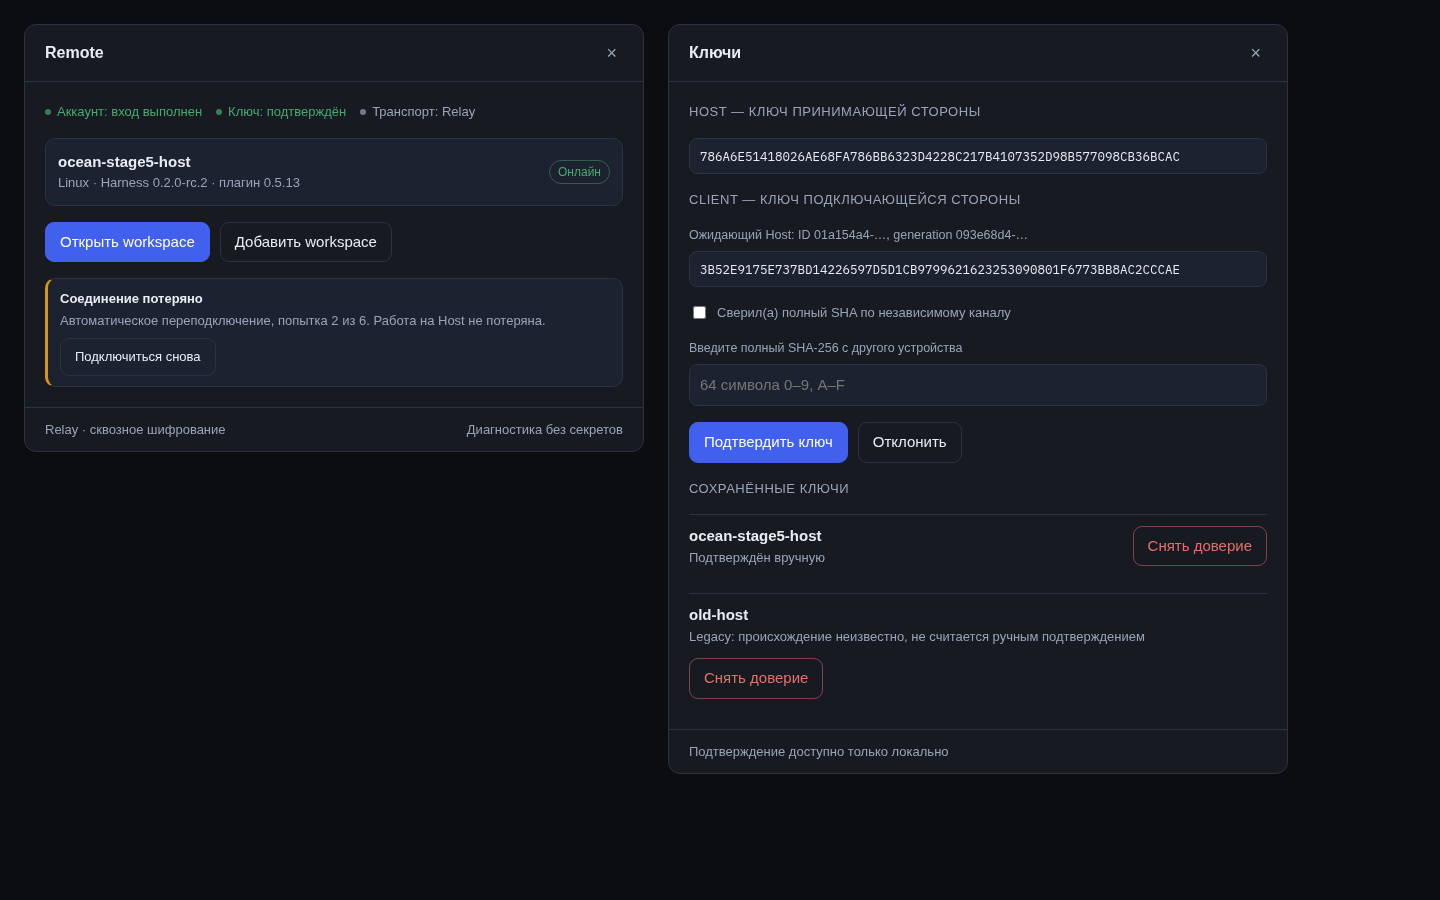
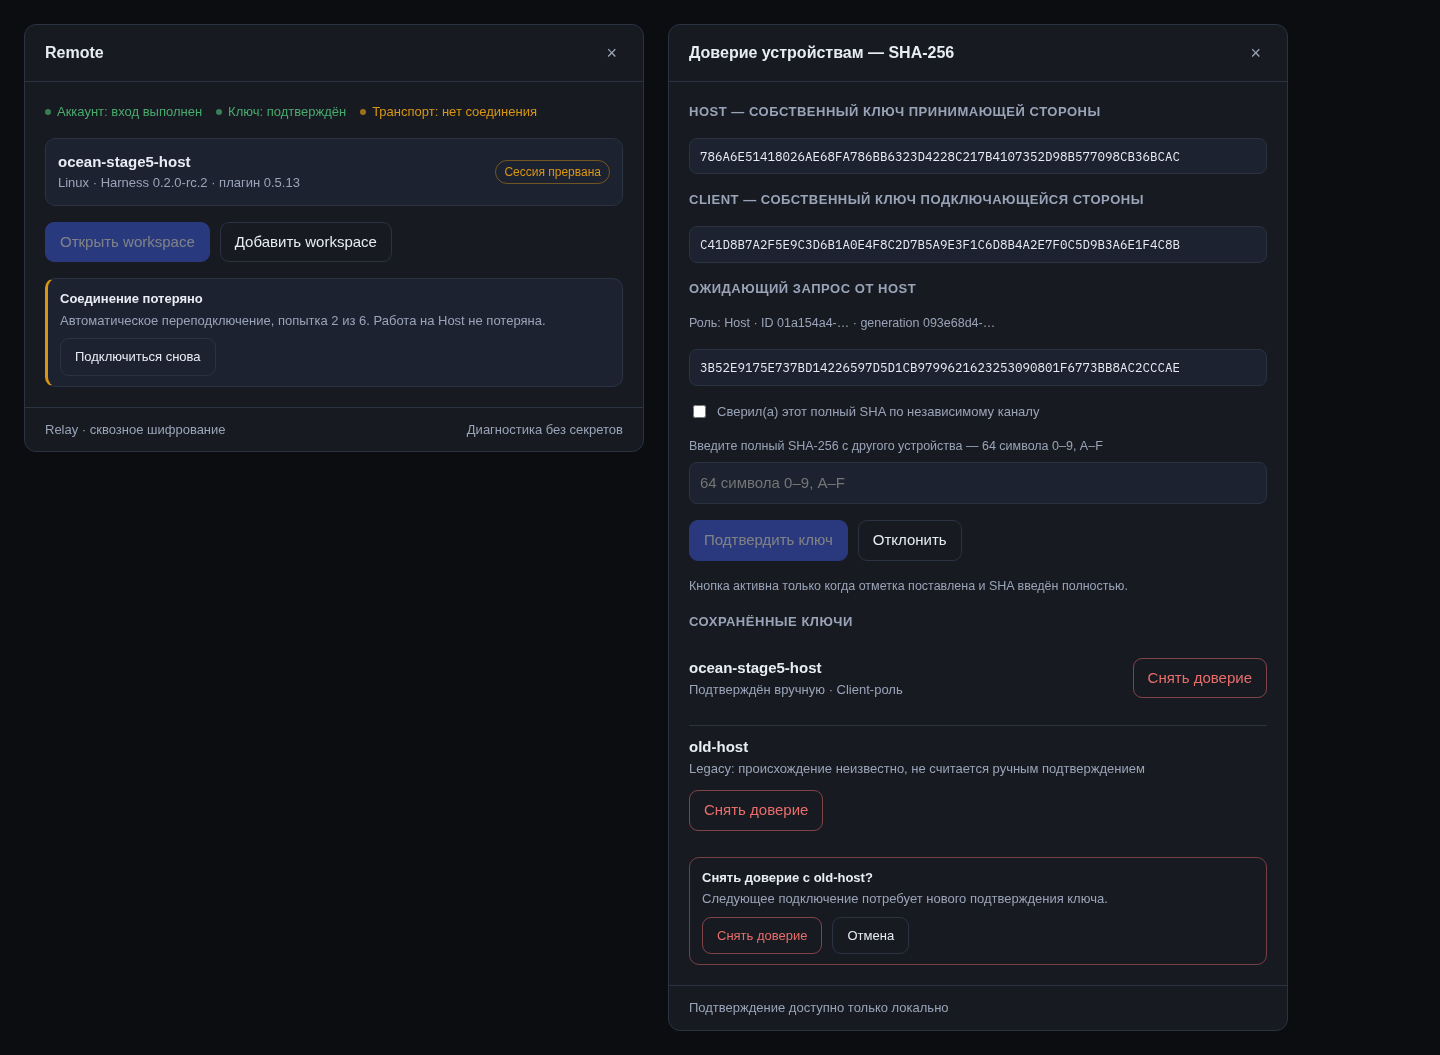
docs: clarify mockup states and add tablet/screen sizes

diff --git a/docs/design/fork/mockups/remote-card.html b/docs/design/fork/mockups/remote-card.html
@@ -3,79 +3,89 @@
 <head>
 <meta charset="utf-8">
 <meta name="viewport" content="width=device-width, initial-scale=1">
-<title>Remote: карточка подключения и доверие</title>
+<title>Remote: карточка подключения и доверие — макет</title>
 <style>
+  /* Макет использует те же смысловые имена, что UI kit. В продукте поверхности
+     плагина получают значения из темы native DSH (--dsw-alias-*), здесь — локальные
+     подстановки с тем же смыслом. Здесь показана только тёмная тема. */
   :root{
-    --bg:#0f1115; --surface:#171a21; --surface-2:#1d2230; --border:#2b3242;
-    --ink:#e8ecf4; --muted:#9aa4b8; --accent:#4160ed; --success:#49aa6e; --warn:#d89614; --danger:#e86e6b;
+    --bg:#0b0d11; --surface:#171a21; --surface-2:#1d2230; --border:#2b3242;
+    --ink:#e8ecf4; --muted:#9aa4b8; --accent:#4160ed;
+    --success:#49aa6e; --warning:#d89614; --danger:#e86e6b;
     --radius:12px; --gap:16px;
   }
   *{box-sizing:border-box}
-  body{margin:0;background:#0b0d11;color:var(--ink);font:15px/1.5 -apple-system,"Segoe UI",Roboto,sans-serif}
+  body{margin:0;background:var(--bg);color:var(--ink);font:15px/1.5 -apple-system,"Segoe UI",Roboto,sans-serif}
   .stage{display:flex;gap:24px;padding:24px;align-items:flex-start;flex-wrap:wrap}
   .card{background:var(--surface);border:1px solid var(--border);border-radius:var(--radius);width:620px;overflow:hidden}
   .card__head{display:flex;align-items:center;justify-content:space-between;padding:16px 20px;border-bottom:1px solid var(--border)}
-  .card__title{font-weight:600;font-size:16px}
-  .card__close{background:transparent;border:0;color:var(--muted);font-size:18px;cursor:pointer}
+  .card__title{margin:0;font-weight:600;font-size:16px}
+  .card__close{background:transparent;border:0;color:var(--muted);font-size:18px;cursor:pointer;border-radius:6px}
   .card__body{padding:20px;display:flex;flex-direction:column;gap:var(--gap)}
-  .layers{display:flex;gap:14px;flex-wrap:wrap;font-size:13px;color:var(--muted)}
+  .layers{display:flex;gap:14px;flex-wrap:wrap;font-size:13px;color:var(--muted);margin:0}
   .layer{display:inline-flex;align-items:center;gap:6px}
   .dot{width:6px;height:6px;border-radius:50%;background:currentColor;opacity:.7}
-  .layer--ok{color:var(--success)} .layer--none{color:var(--muted)} .layer--warn{color:var(--warn)}
-  .host{display:flex;justify-content:space-between;align-items:center;padding:12px;border:1px solid var(--border);border-radius:10px;background:var(--surface-2)}
+  .layer--ok{color:var(--success)} .layer--none{color:var(--muted)} .layer--warn{color:var(--warning)}
+  .host{display:flex;justify-content:space-between;align-items:center;padding:12px;border:1px solid var(--border);border-radius:10px;background:var(--surface-2);gap:12px}
   .host__name{font-weight:600}
   .host__meta{font-size:13px;color:var(--muted)}
-  .badge{font-size:12px;padding:2px 8px;border-radius:999px;border:1px solid var(--border);color:var(--muted)}
+  .badge{font-size:12px;padding:2px 8px;border-radius:999px;border:1px solid var(--border);color:var(--muted);white-space:nowrap}
+  .badge--warn{color:var(--warning);border-color:color-mix(in srgb,var(--warning) 45%,transparent)}
   .badge--ok{color:var(--success);border-color:color-mix(in srgb,var(--success) 45%,transparent)}
   .btn{border:1px solid var(--border);background:transparent;color:var(--ink);border-radius:9px;padding:8px 14px;font:inherit;cursor:pointer;white-space:nowrap}
+  .btn:hover{border-color:var(--muted)}
+  .btn:focus-visible,.card__close:focus-visible{outline:2px solid var(--accent);outline-offset:2px}
   .btn--primary{background:var(--accent);border-color:var(--accent);color:#fff}
   .btn--danger{color:var(--danger);border-color:color-mix(in srgb,var(--danger) 50%,transparent)}
-  .notice{border:1px solid var(--border);border-left:3px solid var(--warn);border-radius:10px;padding:10px 12px;font-size:13px;color:var(--muted);background:var(--surface-2)}
+  .btn[disabled]{opacity:.45;cursor:not-allowed}
+  .notice{border:1px solid var(--border);border-left:3px solid var(--warning);border-radius:10px;padding:10px 12px;font-size:13px;color:var(--muted);background:var(--surface-2)}
   .notice strong{display:block;color:var(--ink);font-size:13px;margin-bottom:2px}
+  .confirm{border:1px solid color-mix(in srgb,var(--danger) 45%,transparent);border-radius:10px;padding:10px 12px;font-size:13px;color:var(--muted)}
+  .confirm strong{display:block;color:var(--ink);margin-bottom:2px}
   .section-title{font-size:13px;letter-spacing:.04em;text-transform:uppercase;color:var(--muted);margin:0}
-  .sha{font-family:ui-monospace,SFMono-Regular,Menlo,monospace;font-size:12.5px;overflow-wrap:anywhere;color:var(--ink);background:var(--surface-2);border:1px solid var(--border);border-radius:8px;padding:8px 10px}
+  .sha{font-family:ui-monospace,SFMono-Regular,Menlo,monospace;font-size:12.5px;overflow-wrap:anywhere;color:var(--ink);background:var(--surface-2);border:1px solid var(--border);border-radius:8px;padding:8px 10px;margin:0}
   .row{display:flex;gap:10px;align-items:center;flex-wrap:wrap}
-  .field{display:flex;flex-direction:column;gap:6px}
+  .field{display:flex;flex-direction:column;gap:6px;margin:0}
   .field input{background:var(--surface-2);border:1px solid var(--border);border-radius:8px;color:var(--ink);padding:9px 10px;font:inherit;width:100%}
-  .hint{font-size:12.5px;color:var(--muted)}
+  .field input:focus-visible{outline:2px solid var(--accent);outline-offset:2px}
+  .hint{font-size:12.5px;color:var(--muted);margin:0}
   .check{display:flex;gap:8px;align-items:flex-start;font-size:13px;color:var(--muted)}
-  .pin{display:flex;justify-content:space-between;align-items:center;gap:12px;padding:10px 0;border-top:1px solid var(--border);flex-wrap:wrap}
-  .pin:first-of-type{border-top:0}
-  .footer{display:flex;justify-content:space-between;align-items:center;padding:12px 20px;border-top:1px solid var(--border);font-size:13px;color:var(--muted)}
-  @media (max-width:520px){
+  .pin{display:flex;justify-content:space-between;align-items:center;gap:12px;padding:10px 0;flex-wrap:wrap}
+  .pin + .pin{border-top:1px solid var(--border)}
+  .footer{display:flex;justify-content:space-between;align-items:center;gap:12px;padding:12px 20px;border-top:1px solid var(--border);font-size:13px;color:var(--muted);flex-wrap:wrap}
+  @media (max-width:700px){
     .stage{padding:12px}
     .card{width:100%}
     .card__body{padding:14px;gap:12px}
     .host{flex-direction:column;align-items:flex-start;gap:8px}
-    .footer{flex-direction:column;gap:8px;align-items:flex-start}
   }
 </style>
 </head>
 <body>
 <div class="stage">
-  <section class="card" aria-label="Remote — подключение">
+  <section class="card" aria-labelledby="remote-title">
     <header class="card__head">
-      <span class="card__title">Remote</span>
-      <button class="card__close" aria-label="Закрыть">×</button>
+      <h2 class="card__title" id="remote-title">Remote</h2>
+      <button class="card__close" aria-label="Закрыть карточку Remote">×</button>
     </header>
     <div class="card__body">
-      <div class="layers">
-        <span class="layer layer--ok"><span class="dot"></span>Аккаунт: вход выполнен</span>
-        <span class="layer layer--ok"><span class="dot"></span>Ключ: подтверждён</span>
-        <span class="layer layer--none"><span class="dot"></span>Транспорт: Relay</span>
-      </div>
+      <p class="layers">
+        <span class="layer layer--ok"><span class="dot" aria-hidden="true"></span>Аккаунт: вход выполнен</span>
+        <span class="layer layer--ok"><span class="dot" aria-hidden="true"></span>Ключ: подтверждён</span>
+        <span class="layer layer--warn"><span class="dot" aria-hidden="true"></span>Транспорт: нет соединения</span>
+      </p>
       <div class="host">
         <div>
           <div class="host__name">ocean-stage5-host</div>
           <div class="host__meta">Linux · Harness 0.2.0-rc.2 · плагин 0.5.13</div>
         </div>
-        <span class="badge badge--ok">Онлайн</span>
+        <span class="badge badge--warn">Сессия прервана</span>
       </div>
       <div class="row">
-        <button class="btn btn--primary">Открыть workspace</button>
+        <button class="btn btn--primary" disabled>Открыть workspace</button>
         <button class="btn">Добавить workspace</button>
       </div>
-      <div class="notice">
+      <div class="notice" role="status">
         <strong>Соединение потеряно</strong>
         Автоматическое переподключение, попытка 2 из 6. Работа на Host не потеряна.
         <span class="row" style="margin-top:8px"><button class="btn">Подключиться снова</button></span>
@@ -87,44 +97,51 @@
     </footer>
   </section>
 
-  <section class="card" aria-label="Ключи — ожидающий запрос">
+  <section class="card" aria-labelledby="trust-title" aria-label="Доверие устройств">
     <header class="card__head">
-      <span class="card__title">Ключи</span>
-      <button class="card__close" aria-label="Закрыть">×</button>
+      <h2 class="card__title" id="trust-title">Доверие устройствам — SHA-256</h2>
+      <button class="card__close" aria-label="Закрыть панель доверия">×</button>
     </header>
     <div class="card__body">
-      <p class="section-title">Host — ключ принимающей стороны</p>
-      <div class="sha">786A6E51418026AE68FA786BB6323D4228C217B4107352D98B577098CB36BCAC</div>
+      <h3 class="section-title">Host — собственный ключ принимающей стороны</h3>
+      <p class="sha">786A6E51418026AE68FA786BB6323D4228C217B4107352D98B577098CB36BCAC</p>
 
-      <p class="section-title">Client — ключ подключающейся стороны</p>
+      <h3 class="section-title">Client — собственный ключ подключающейся стороны</h3>
+      <p class="sha">C41D8B7A2F5E9C3D6B1A0E4F8C2D7B5A9E3F1C6D8B4A2E7F0C5D9B3A6E1F4C8B</p>
+
+      <h3 class="section-title">Ожидающий запрос от Host</h3>
+      <p class="hint">Роль: Host · ID 01a154a4-… · generation 093e68d4-…</p>
+      <p class="sha">3B52E9175E737BD14226597D5D1CB9799621623253090801F6773BB8AC2CCCAE</p>
+      <label class="check"><input type="checkbox"> Сверил(а) этот полный SHA по независимому каналу</label>
       <div class="field">
-        <span class="hint">Ожидающий Host: ID 01a154a4-…, generation 093e68d4-…</span>
-        <div class="sha">3B52E9175E737BD14226597D5D1CB9799621623253090801F6773BB8AC2CCCAE</div>
-      </div>
-      <label class="check"><input type="checkbox"> Сверил(а) полный SHA по независимому каналу</label>
-      <div class="field">
-        <label for="sha" class="hint">Введите полный SHA-256 с другого устройства</label>
+        <label for="sha" class="hint">Введите полный SHA-256 с другого устройства — 64 символа 0–9, A–F</label>
         <input id="sha" placeholder="64 символа 0–9, A–F">
       </div>
       <div class="row">
-        <button class="btn btn--primary">Подтвердить ключ</button>
+        <button class="btn btn--primary" disabled>Подтвердить ключ</button>
         <button class="btn">Отклонить</button>
       </div>
+      <p class="hint">Кнопка активна только когда отметка поставлена и SHA введён полностью.</p>
 
-      <p class="section-title">Сохранённые ключи</p>
+      <h3 class="section-title">Сохранённые ключи</h3>
       <div class="pin">
         <div>
           <div class="host__name">ocean-stage5-host</div>
-          <div class="host__meta">Подтверждён вручную</div>
+          <div class="host__meta">Подтверждён вручную · Client-роль</div>
         </div>
-        <button class="btn btn--danger">Снять доверие</button>
+        <button class="btn btn--danger" aria-label="Снять доверие: client 01a154a4">Снять доверие</button>
       </div>
       <div class="pin">
         <div>
           <div class="host__name">old-host</div>
           <div class="host__meta">Legacy: происхождение неизвестно, не считается ручным подтверждением</div>
         </div>
-        <button class="btn btn--danger">Снять доверие</button>
+        <button class="btn btn--danger" aria-label="Снять доверие: client 0f2b7711">Снять доверие</button>
+      </div>
+      <div class="confirm">
+        <strong>Снять доверие с old-host?</strong>
+        Следующее подключение потребует нового подтверждения ключа.
+        <span class="row" style="margin-top:8px"><button class="btn btn--danger">Снять доверие</button><button class="btn">Отмена</button></span>
       </div>
     </div>
     <footer class="footer">

diff --git a/docs/design/fork/mockups/README.ru.md b/docs/design/fork/mockups/README.ru.md
@@ -1,27 +1,35 @@
 # Макеты форка (этап 06, для согласования)
 
-Статус: **черновик визуального направления**, показывается пользователю до переделки интерфейса. Согласование этих макетов не означает автоматического согласия на весь дизайн: направление обсуждается отдельно (спецификация 06).
+Статус: **черновик визуального направления**, показывается пользователю до переделки интерфейса. Согласование этих макетов не означает согласия на весь дизайн: направление обсуждается отдельно (спецификация 06).
 
 ## Что показано
 
 | Макет | Состояние | Файл |
 | --- | --- | --- |
-| Карточка Remote, desktop 1440 | Подключено + уведомление о потере связи с автопоповтором | `remote-card-desktop.png` |
-| Панель «Ключи», desktop 1440 | Полный SHA двух ролей, ожидающий запрос, сохранённые ключи с legacy | та же картинка, правая карточка |
-| Узкий экран 360 | Те же карточки столбцом | `remote-card-narrow.png` |
+| Карточка Remote, desktop 1440 | **Обрыв связи**: транспорт «нет соединения», авто-переподключение, попытка 2 из 6 | `remote-card-desktop.png` |
+| Панель «Ключи», desktop 1440 | Собственные SHA двух ролей раздельно, ожидающий запрос от Host, сохранённые ключи с legacy и подтверждением снятия доверия | та же картинка, правая карточка |
+| Планшет 768 | Те же карточки в одну колонку | `remote-card-tablet.png` |
+| Узкий экран 360@2x | То же, столбцом | `remote-card-narrow.png` |
 
-Исходник разметки: `remote-card.html` (самодостаточный, без внешних ассетов и шрифтов).
+Исходник разметки: `remote-card.html` — самодостаточный, без внешних ассетов, шрифтов и сетевых ссылок.
+
+## Осознанные отличия от текущего кода (целевое, не «как сейчас»)
+
+- Подписи русские: сейчас часть строк английская (см. таблицу соответствия в [карте экранов](../01-screen-map.ru.md)).
+- Клиентский собственный SHA показан отдельной строкой; в текущей панели его подпись сливается с ожидающим запросом.
+- У кнопки «Подтвердить ключ» показано disabled-состояние, у уведомления об обрыве — номер попытки из бюджета 6.
+- Подтверждение снятия доверия нарисовано отдельной строкой; в продукте сейчас `window.confirm`.
 
 ## Что проверено по макету
 
-- Полный SHA-256 переносится и **не обрезается** ни на 1440, ни на 360.
-- Опасное действие окрашено в danger и подписано объектом; legacy не зелёный.
-- Чекбокс независимой сверки **не предзаполнен**.
-- Слои «аккаунт / ключ / транспорт» показаны раздельно.
+- Полный SHA-256 переносится и **не обрезается** на 1440, 768 и 360.
+- Опасное действие окрашено в danger, доступное имя содержит роль и ID; legacy не зелёный.
+- Чекбокс независимой сверки **не предзаполнен**, кнопка подтверждения заблокирована.
+- Слои «аккаунт / ключ / транспорт» показаны раздельно, обрыв не маскируется зелёным «Онлайн».
 - Нет горизонтального скролла страницы на 360.
 
 ## Чего в макетах нет
 
-- Тёмная тема проверена, светлая — нет (макет только тёмный).
-- Контраст не измерялся автоматически; значения выбраны по целевым AA.
-- Экраны консоли Ocean и настройки здесь не показаны — они появятся в следующей итерации после согласования направления.
+- Светлая тема: показана только тёмная.
+- Автоматическое измерение контраста не выполнялось (значения выбраны по целевым AA).
+- Экраны настроек и консоли Ocean — следующая итерация после согласования направления.
